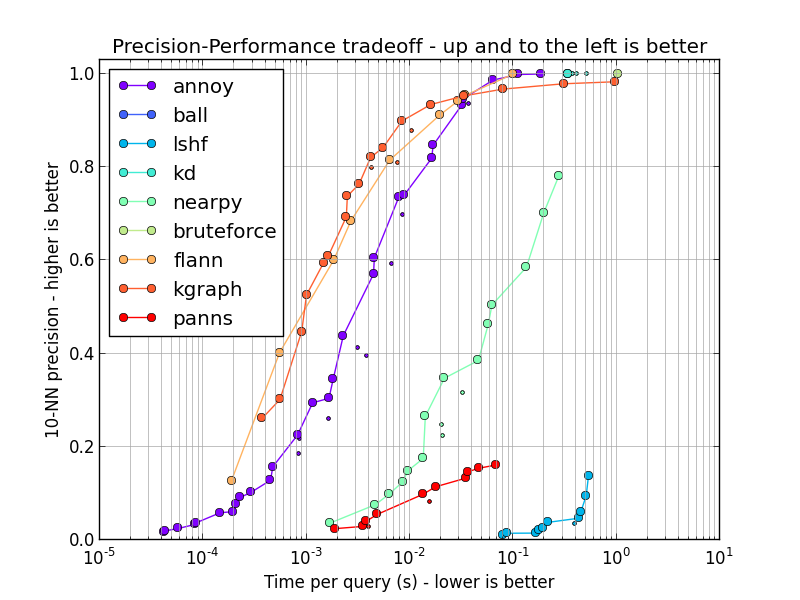
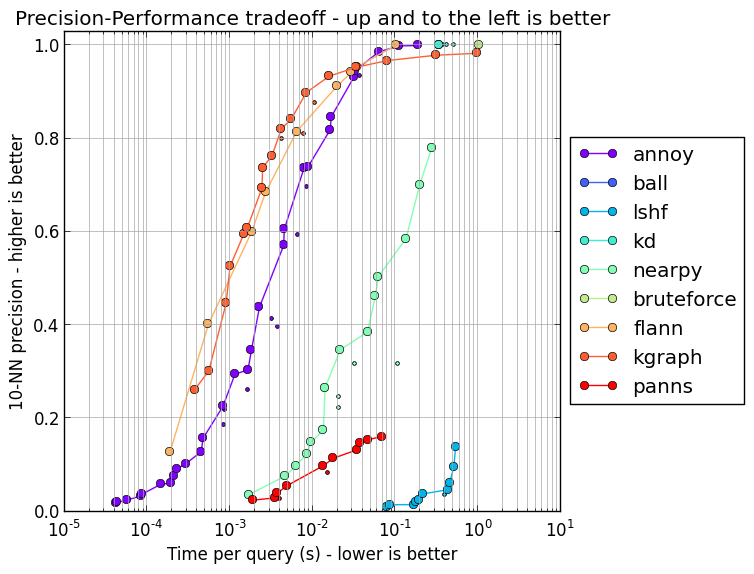
sift euclidean results

Changed region(s): [[0.0, 0.0, 1.0, 1.0]]

diff --git a/plot.py b/plot.py
@@ -47,8 +47,10 @@ plt.gca().set_xscale('log')
 plt.gca().set_title('Precision-Performance tradeoff - up and to the left is better')
 plt.gca().set_xlabel('Time per query (s) - lower is better')
 plt.gca().set_ylabel('10-NN precision - higher is better')
-plt.gca().legend(handles, labels, loc='upper left')
+box = plt.gca().get_position()
+plt.gca().set_position([box.x0, box.y0, box.width * 0.8, box.height])
+plt.gca().legend(handles, labels, loc='center left', bbox_to_anchor=(1, 0.5))
 plt.grid(b=True, which='both', color='0.65',linestyle='-')
 plt.ylim([0, 1.03])
-plt.savefig(args.output)
+plt.savefig(args.output, bbox_inches='tight')
 

diff --git a/README.rst b/README.rst
@@ -41,7 +41,6 @@ Principles
 * To make it simpler, look only at the precision-performance tradeoff.
 * Try many different values of parameters for each library and ignore the points that are not on the precision-performance frontier.
 * High-dimensional datasets with approximately 100-1000 dimensions. This is challenging but also realistic. Not more than 1000 dimensions because those problems should probably be solved by doing dimensionality reduction separately.
-* Use cosine similarity. For libraries where this is not supported, this is trivially achieved by normalizing all vectors.
 * Use single core benchmarks. I believe most real world scenarios could be parallelized in other ways (eg. do multiple queries in parallel).
 * Avoid extremely costly index building (more than several hours).
 * Focus on datasets that fit in RAM. Out of core ANN could be the topic of a later comparison.
@@ -50,10 +49,16 @@ Principles
 Results
 -------
 
-Currently this is on the full 1.15M vectors from GloVe (100 dimensions, trained from tweets). It's run on a c4.4xlarge instance on EC2.
 This is very much a work in progress... more results coming later!
 
+1.19M vectors from GloVe (100 dimensions, trained from tweets), cosine similarity, run on a c4.4xlarge instance on EC2.
+
 .. figure:: https://raw.github.com/erikbern/ann-benchmarks/master/results/glove.png
+   :align: center
+
+1M SIFT features (128 dimensions), Euclidean distance, also run on a c4.4xlarge:
+
+.. figure:: https://raw.github.com/erikbern/ann-benchmarks/master/results/sift.png
    :align: center
 
 References
